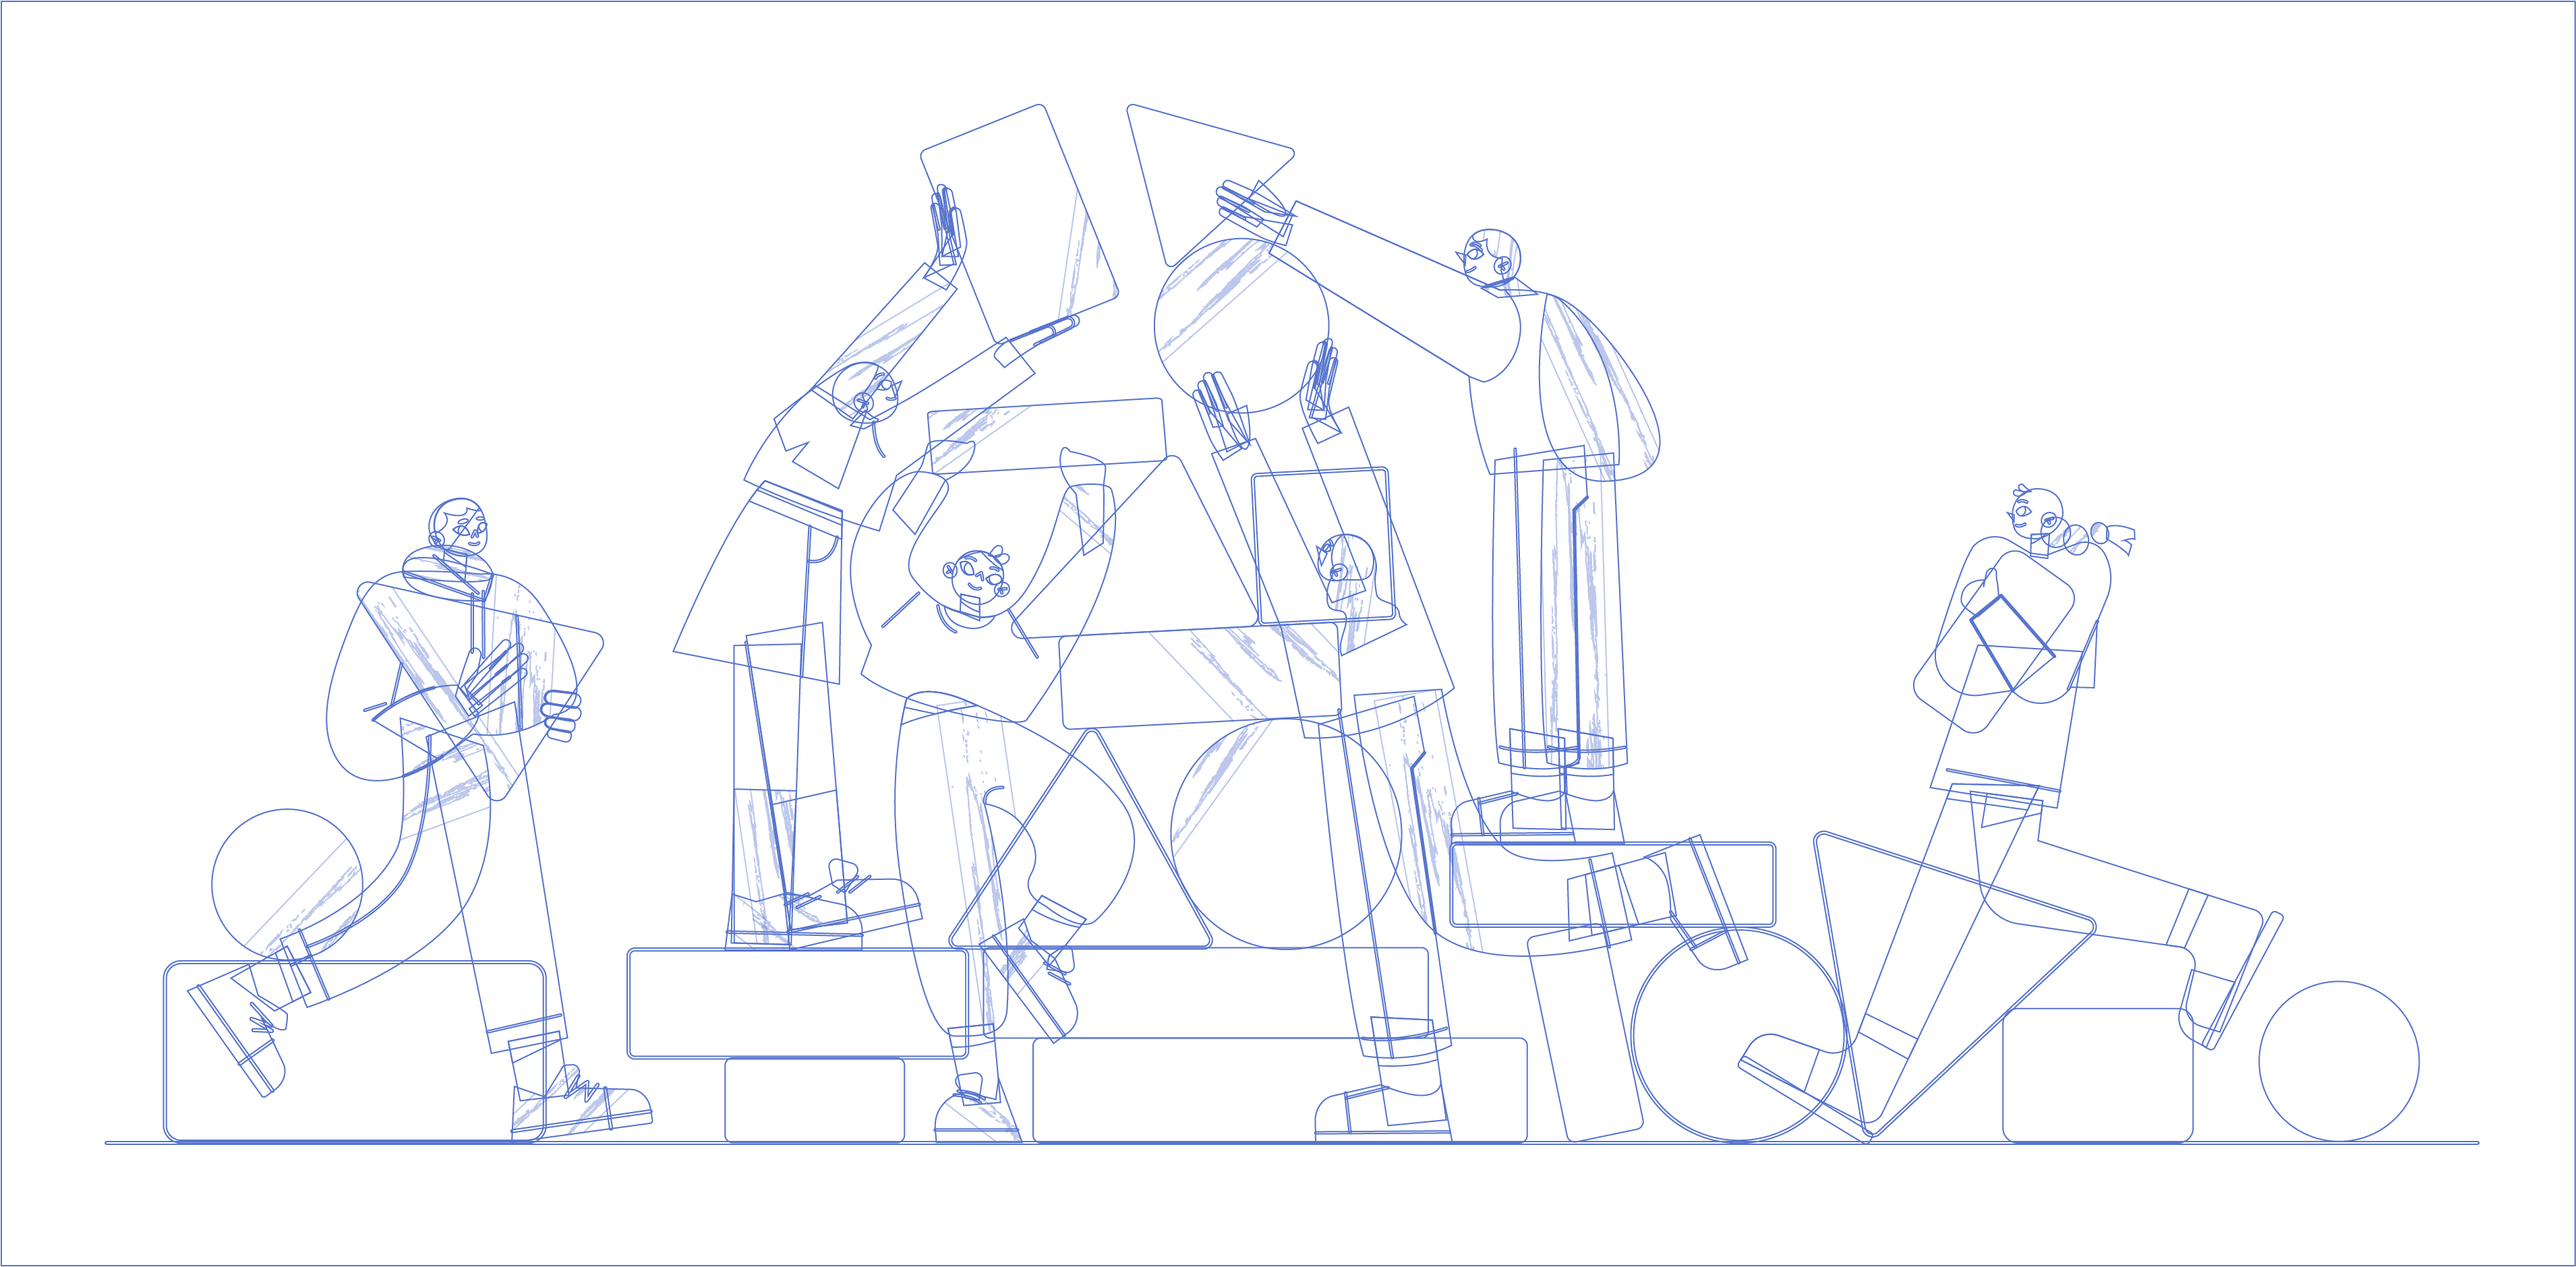
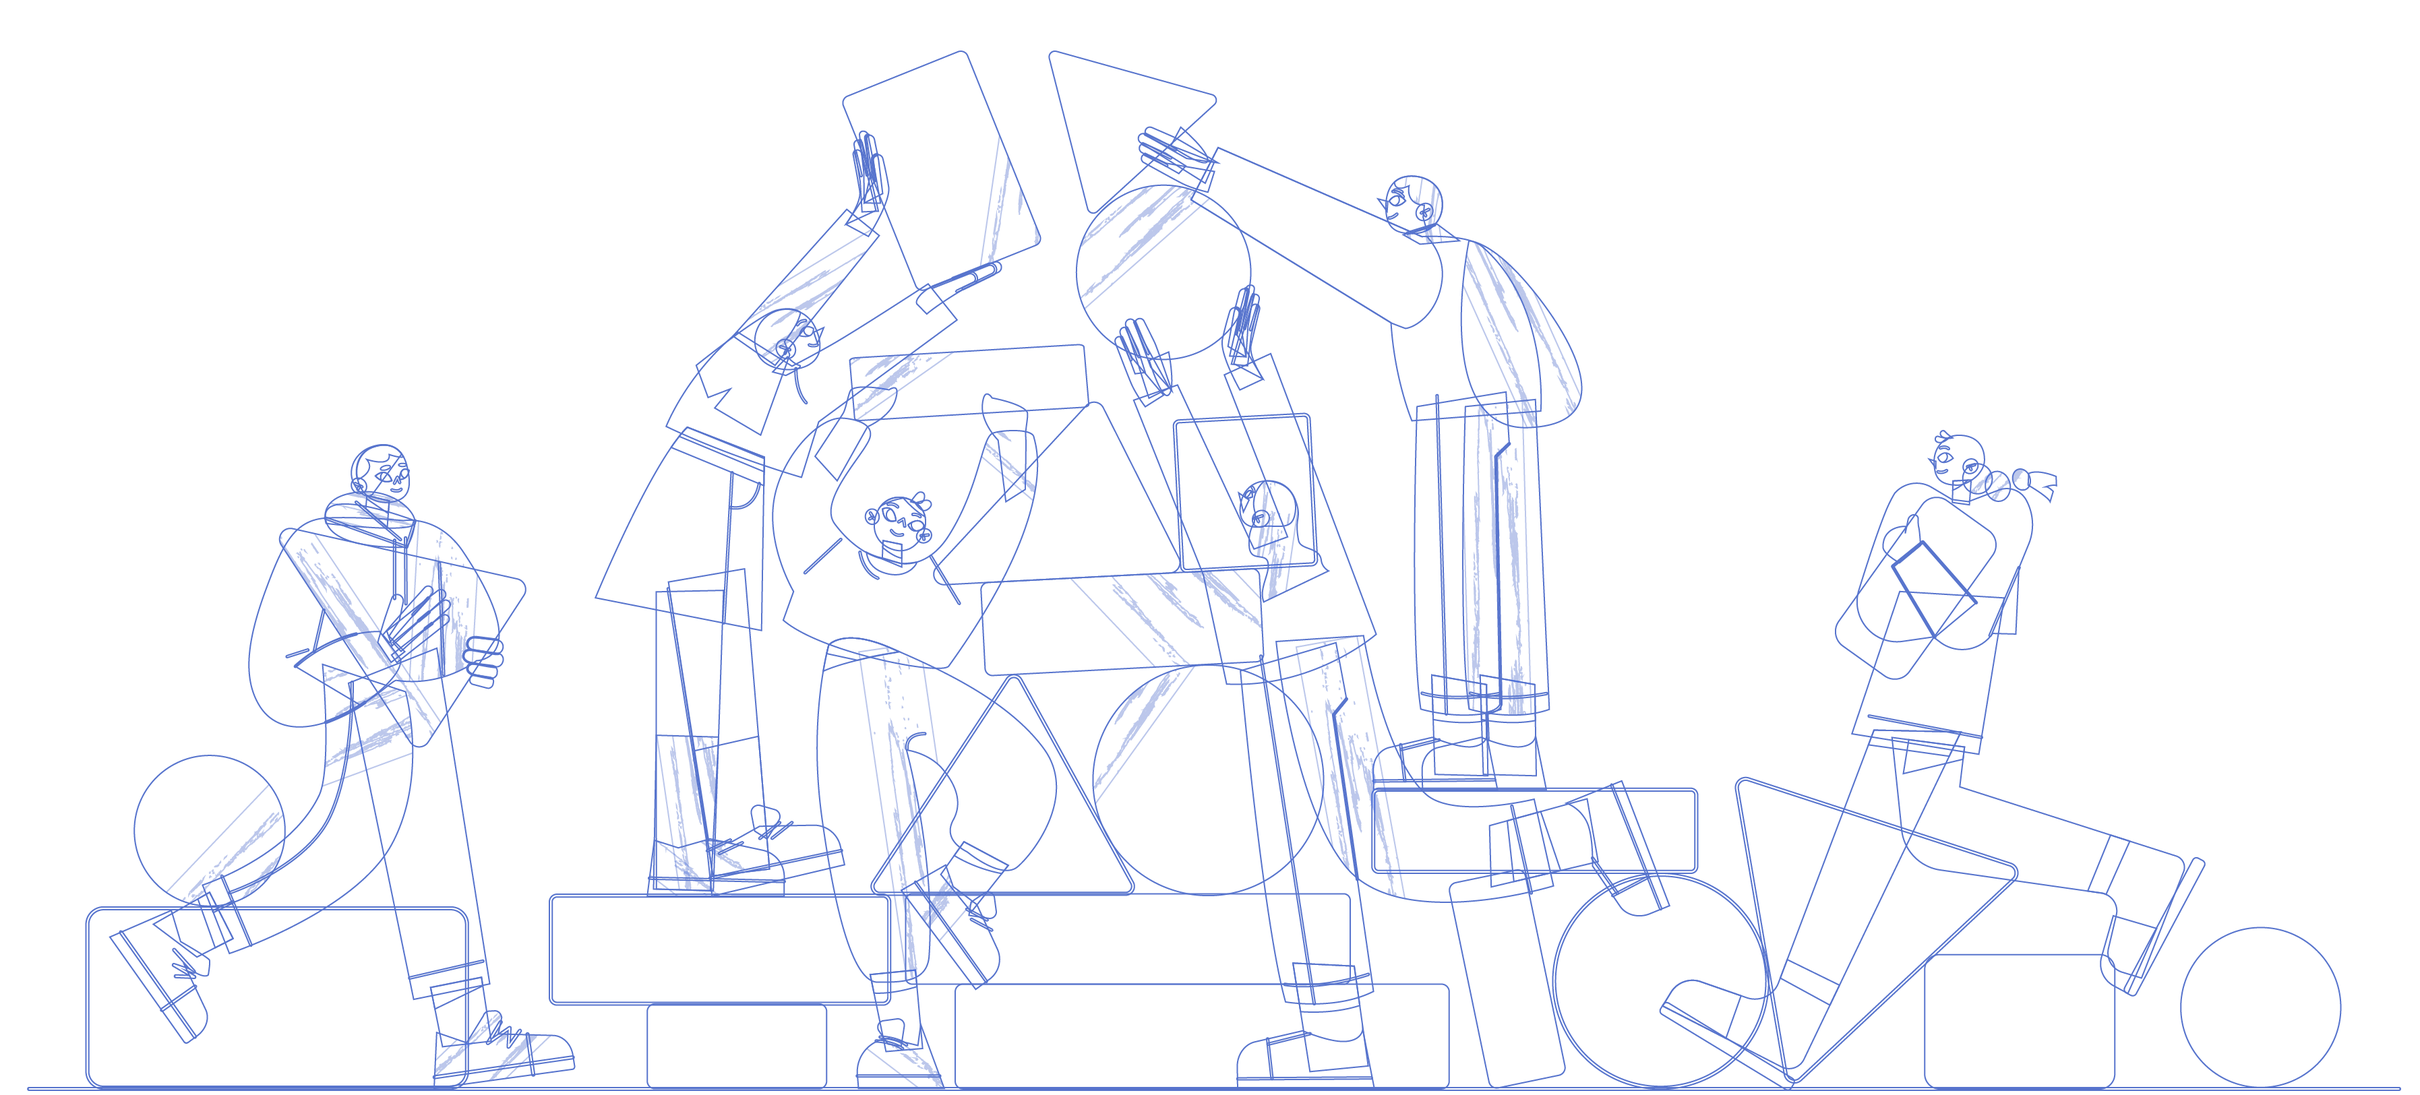
layout responsiveness

Changed region(s): [[0.0, 0.0, 1.0, 1.0]]

diff --git a/src/app/page.tsx b/src/app/page.tsx
@@ -3,10 +3,12 @@ import ARCLogo from "./my_components/elements/ARCLogo";
 
 export default function Home() {
   return (
-    <div className="flex items-center justify-center h-screen w-screen p-10">
-      <div className="hero flex gap-5 items-center justify-center bg-[var(--primary-blue)] w-full h-full rounded-md font-title">
-        <ARCLogo />
-        <DodLogo />
+    <div className="relative items-center justify-center h-screen w-screen p-10">
+      <div className="hero flex flex-col gap-5 items-center justify-center bg-[var(--primary-blue)] w-full h-full rounded-md font-title">
+        <div className="flex flex-col md:flex-row gap-5 items-start md:items-center justify-center">
+          <ARCLogo />
+          <DodLogo />
+        </div>
       </div>
     </div>
   );

diff --git a/src/app/layout.tsx b/src/app/layout.tsx
@@ -27,11 +27,11 @@ export default function RootLayout({
         <link rel="icon" href="/favicon.ico" />
       </head>
       <body
-        className={` antialiased text-[var(--primary-white)]`}
+        className={`${italianno.className} antialiased text-[var(--primary-white)]`}
       >
         {children}
         <div className="bg-image bg-[var(--primary-white)] absolute -z-10 inset-0 overflow-hidden">
-          <Image className="opacity-75"  src="/bg-image.png" alt="bg" layout="fill" />
+          <Image className="opacity-75 object-cover h-full w-full"  src="/bg-image.png" alt="bg" width={3590} height={1625} />
         </div>
       </body>
     </html>

diff --git a/src/app/globals.css b/src/app/globals.css
@@ -11,3 +11,7 @@
 body {
 
 }
+
+.checkbox {
+  border: 3px solid pink;
+}
